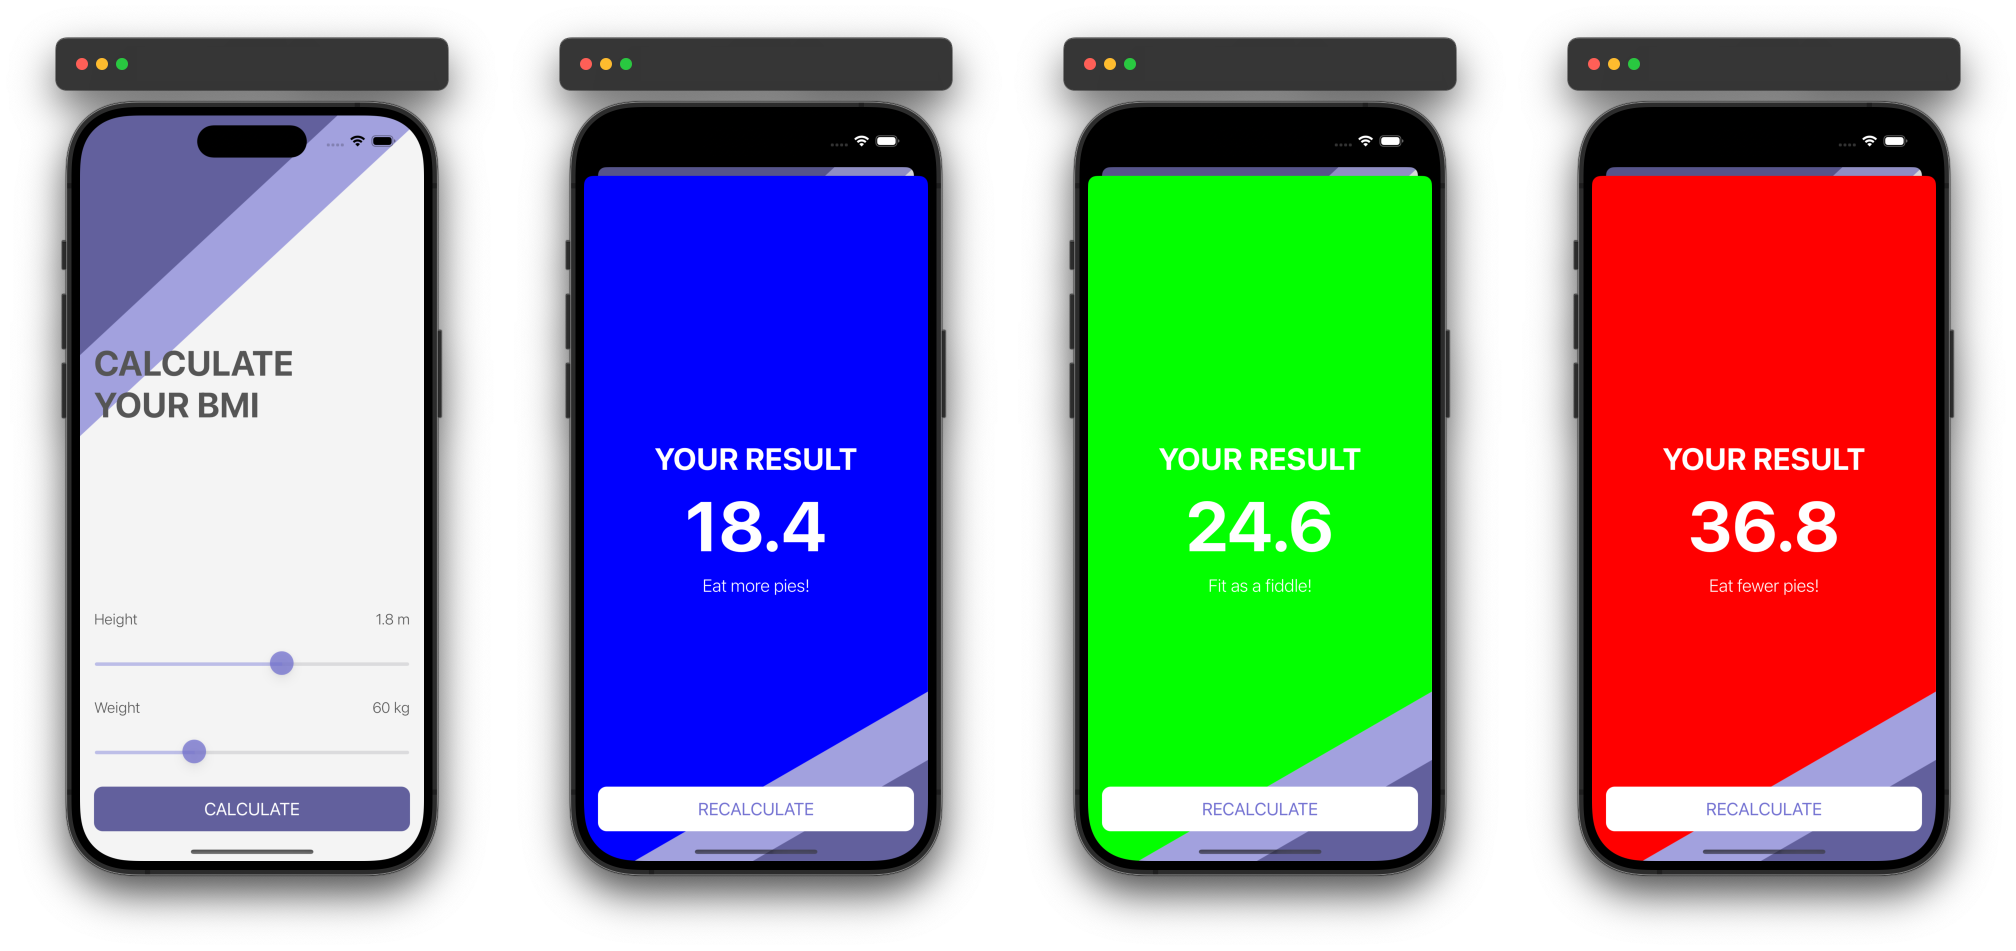
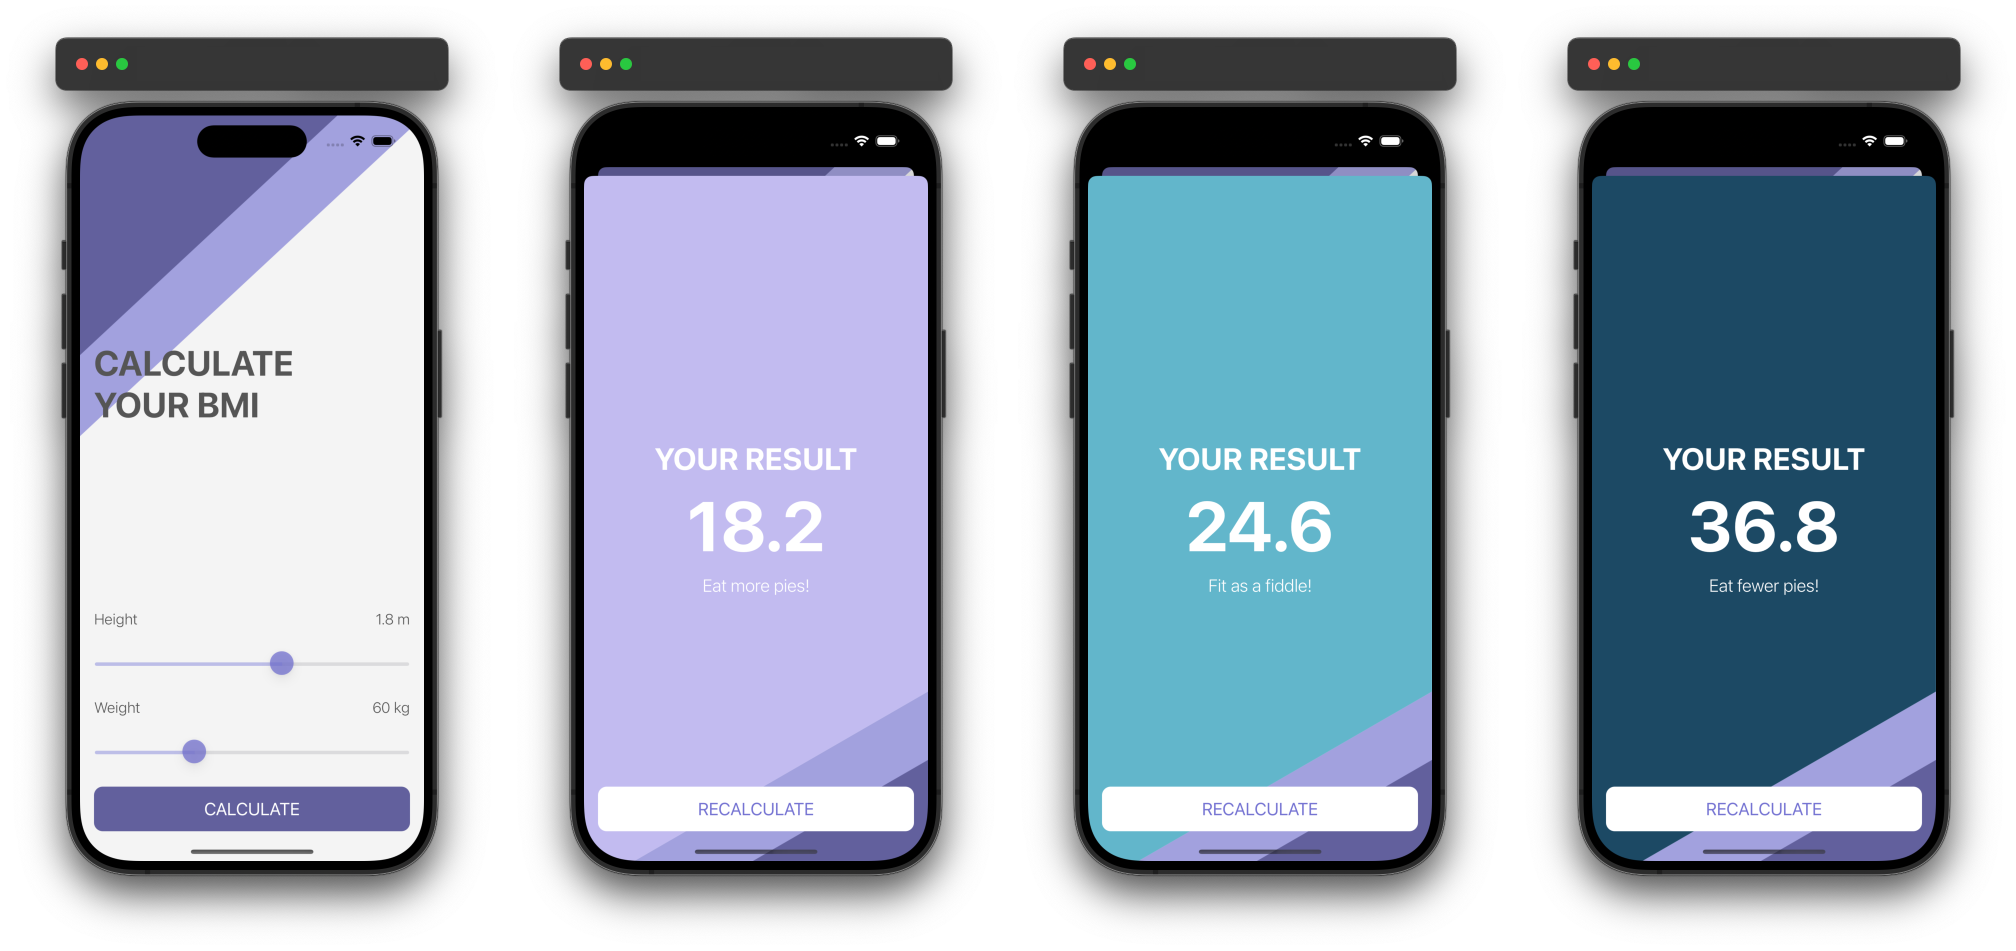
Update UI Colors

diff --git a/BMI Calculator/Models/CalculatorBrain.swift b/BMI Calculator/Models/CalculatorBrain.swift
@@ -1,16 +1,45 @@
 import UIKit
 
+extension UIColor {
+    convenience init(hex: String) {
+        let hexString: String = hex.trimmingCharacters(in: .whitespacesAndNewlines)
+        let scanner = Scanner(string: hexString)
+        
+        if hexString.hasPrefix("#") {
+            scanner.currentIndex = scanner.string.index(after: scanner.string.startIndex)
+        }
+        
+        var color: UInt64 = 0
+        scanner.scanHexInt64(&color)
+        
+        let r, g, b, a: CGFloat
+        if hexString.count == 8 {
+            r = CGFloat((color & 0xff000000) >> 24) / 255
+            g = CGFloat((color & 0x00ff0000) >> 16) / 255
+            b = CGFloat((color & 0x0000ff00) >> 8) / 255
+            a = CGFloat(color & 0x000000ff) / 255
+        } else {
+            r = CGFloat((color & 0xff0000) >> 16) / 255
+            g = CGFloat((color & 0x00ff00) >> 8) / 255
+            b = CGFloat(color & 0x0000ff) / 255
+            a = 1.0
+        }
+        
+        self.init(red: r, green: g, blue: b, alpha: a)
+    }
+}
+
 struct CalculatorBrain {
     var bmi: BMI?
     
     mutating func calculateBMI(height: Float, weight: Float) {
         let bmiValue = weight/(height*height)
         if bmiValue < 18.5 {
-            bmi = BMI(value: bmiValue, advice: "Eat more pies!", color: UIColor.blue)
+            bmi = BMI(value: bmiValue, advice: "Eat more pies!", color: UIColor(hex: "c2bbf0"))
         } else if bmiValue < 25.0 {
-            bmi = BMI(value: bmiValue, advice: "Fit as a fiddle!", color: UIColor.green)
+            bmi = BMI(value: bmiValue, advice: "Fit as a fiddle!", color: UIColor(hex: "62b6cb"))
         } else {
-            bmi = BMI(value: bmiValue, advice: "Eat fewer pies!", color: UIColor.red)
+            bmi = BMI(value: bmiValue, advice: "Eat fewer pies!", color: UIColor(hex: "1b4965"))
         }
     }
     

diff --git a/README.md b/README.md
@@ -7,7 +7,7 @@ This BMI (Body Mass Index) Calculator is a simple and intuitive iOS application 
 ### Preview
 
 <div style="text-align: center;">
-  <img src="./demo.png" alt="Preview" style="width: 50%;">
+  <img src="./demo.png" alt="Preview" style="width: 100%;">
 </div>
 
 ## Features
